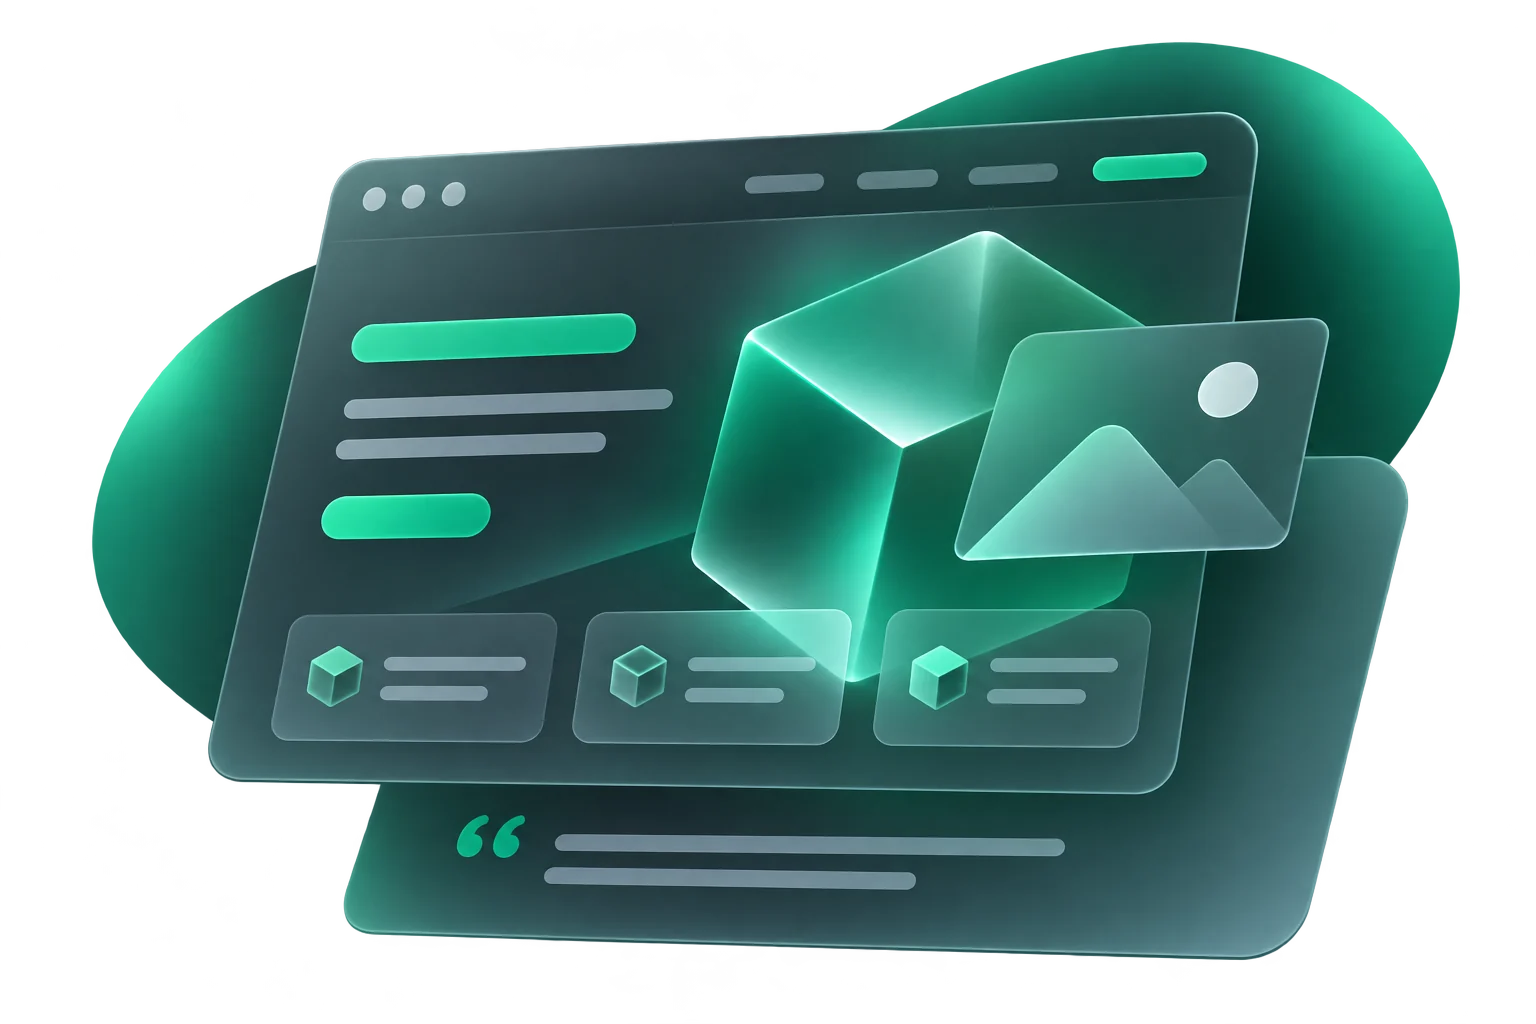
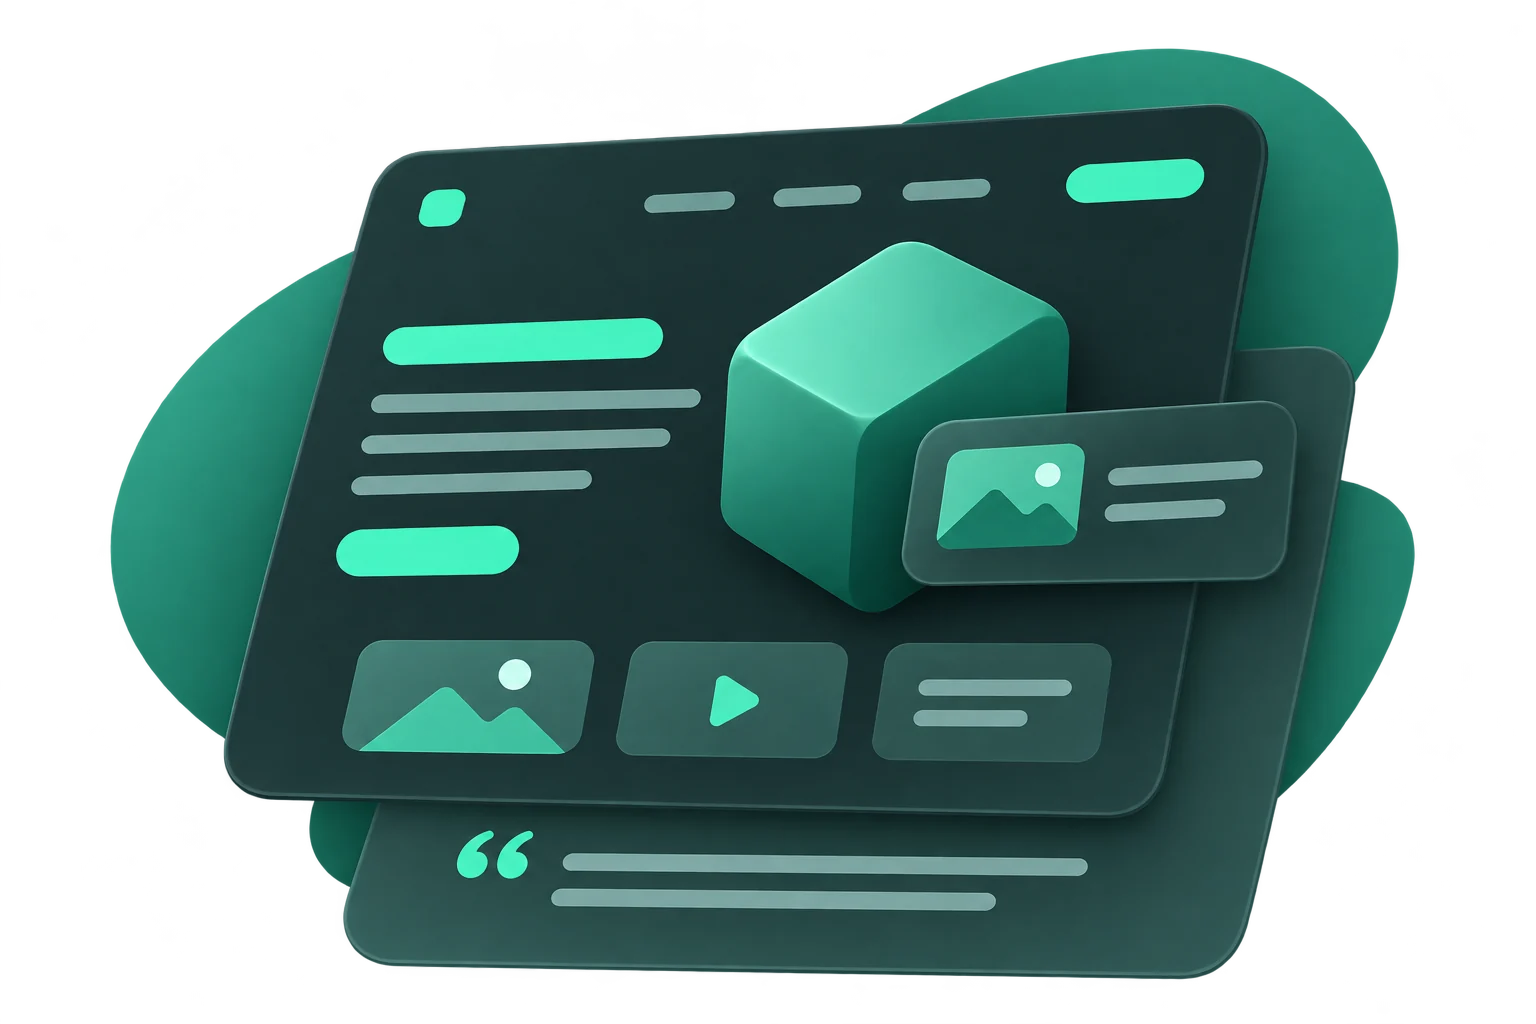
fix: adopt page-sections 0.5.1 and align detail navigation

diff --git a/packages/sveltekit/src/spatial-element/SpatialElementTabList.svelte b/packages/sveltekit/src/spatial-element/SpatialElementTabList.svelte
@@ -26,11 +26,20 @@
 		const sectionId = currentSectionId;
 		if (!linksElement || !sectionId) return;
 
-		const activeLink = Array.from(
+		const links = Array.from(
 			linksElement.querySelectorAll<HTMLElement>('[data-spatial-element-tab-id]')
-		).find((element) => element.dataset.spatialElementTabId === sectionId);
+		);
+		const activeLink = links.find((element) => element.dataset.spatialElementTabId === sectionId);
 		if (!activeLink) return;
 
+		// Keep the dock's changing radii live; only select which group edges are rounded.
+		const rtl = getComputedStyle(linksElement).direction === 'rtl';
+		linksElement.style.setProperty(
+			'--spatial-element-tab-round-left', activeLink === links[rtl ? links.length - 1 : 0] ? '1' : '0'
+		);
+		linksElement.style.setProperty(
+			'--spatial-element-tab-round-right', activeLink === links[rtl ? 0 : links.length - 1] ? '1' : '0'
+		);
 		linksElement.style.setProperty('--spatial-element-tab-active-left', `${activeLink.offsetLeft}px`);
 		linksElement.style.setProperty('--spatial-element-tab-active-width', `${activeLink.offsetWidth}px`);
 		if (!linksElement.hasAttribute('data-spatial-element-tab-indicator-ready') && !readyFrame) {
@@ -169,9 +178,12 @@
 		left: 0;
 		z-index: 0;
 		width: var(--spatial-element-tab-active-width, 0px);
-		border-radius: var(--spatial-element-tab-highlight-top-radius) var(--spatial-element-tab-highlight-top-radius)
-			var(--spatial-element-tab-highlight-bottom-radius) var(--spatial-element-tab-highlight-bottom-radius);
-		background: color-mix(in srgb, var(--spatial-element-body) 8%, transparent);
+		border-radius:
+			calc(var(--spatial-element-tab-round-left, 0) * var(--spatial-element-tab-highlight-top-radius))
+			calc(var(--spatial-element-tab-round-right, 0) * var(--spatial-element-tab-highlight-top-radius))
+			calc(var(--spatial-element-tab-round-right, 0) * var(--spatial-element-tab-highlight-bottom-radius))
+			calc(var(--spatial-element-tab-round-left, 0) * var(--spatial-element-tab-highlight-bottom-radius));
+		background: var(--spatial-element-tab-background);
 		transform: translate3d(var(--spatial-element-tab-active-left, 0px), 0, 0);
 		pointer-events: none;
 		will-change: border-radius;
@@ -180,7 +192,8 @@
 	.spatial-element-tab-links:global([data-spatial-element-tab-indicator-ready]) .spatial-element-tab-selection {
 		transition:
 			width var(--spatial-element-tab-navigation-duration) var(--spatial-element-tab-navigation-easing),
-			transform var(--spatial-element-tab-navigation-duration) var(--spatial-element-tab-navigation-easing);
+			transform var(--spatial-element-tab-navigation-duration) var(--spatial-element-tab-navigation-easing),
+			border-radius var(--spatial-element-tab-navigation-duration) var(--spatial-element-tab-navigation-easing);
 	}
 
 	.spatial-element-tab-selection::after {
@@ -209,8 +222,7 @@
 		box-sizing: border-box;
 		height: 100%;
 		padding: 0 16px;
-		border-radius: var(--spatial-element-tab-highlight-top-radius) var(--spatial-element-tab-highlight-top-radius)
-			var(--spatial-element-tab-highlight-bottom-radius) var(--spatial-element-tab-highlight-bottom-radius);
+		border-radius: 0;
 		color: var(--spatial-element-navigation-ink, var(--spatial-element-ink));
 		background: transparent;
 		font-size: var(--spatial-element-tab-font-size);
@@ -219,6 +231,16 @@
 		text-decoration: none;
 		white-space: nowrap;
 		transition: background-color 180ms ease;
+	}
+
+	.spatial-element-tab-list a:first-of-type {
+		border-start-start-radius: var(--spatial-element-tab-highlight-top-radius);
+		border-end-start-radius: var(--spatial-element-tab-highlight-bottom-radius);
+	}
+
+	.spatial-element-tab-list a:last-of-type {
+		border-start-end-radius: var(--spatial-element-tab-highlight-top-radius);
+		border-end-end-radius: var(--spatial-element-tab-highlight-bottom-radius);
 	}
 
 	a::before,
@@ -245,7 +267,7 @@
 	a.overview[aria-current='location'] svg { opacity: 1; }
 
 	.spatial-element-tab-links:not([data-spatial-element-tab-indicator-ready]) a[aria-current='location'] {
-		background: color-mix(in srgb, var(--spatial-element-body) 8%, transparent);
+		background: var(--spatial-element-tab-background);
 	}
 
 	.spatial-element-tab-links:not([data-spatial-element-tab-indicator-ready]) a[aria-current='location']::after {
@@ -282,7 +304,7 @@
 
 	@media (prefers-reduced-motion: reduce) {
 		a,
-		.spatial-element-tab-selection {
+		.spatial-element-tab-links:global([data-spatial-element-tab-indicator-ready]) .spatial-element-tab-selection {
 			transition: none;
 		}
 	}

diff --git a/tests/apps/showcase-tab-selection.app.ts b/tests/apps/showcase-tab-selection.app.ts
@@ -1,0 +1,58 @@
+import { expect, test } from '@playwright/test';
+
+for (const enhanced of process.env.SPATIAL_GPU ? [false, true] : [false]) for (const width of [1700, 2456]) {
+	test(`detail selection follows the theme and animates only outer corners at ${width}px (enhanced: ${enhanced})`, async ({ page }, info) => {
+		if (!enhanced) await page.addInitScript(() => Object.defineProperty(navigator, 'gpu', { value: undefined }));
+		await page.setViewportSize({ width, height: 1000 });
+		await page.goto('/showcase/consumer/logitech-brio-500/');
+		await expect(page.locator('.stage')).toHaveAttribute('data-stage-state', enhanced ? 'enhanced' : 'fallback', { timeout: 60000 });
+		const tabs = page.locator('[data-spatial-element-tab-list]');
+		const links = tabs.locator('[data-spatial-element-tab-id]');
+		const selection = tabs.locator('[data-spatial-element-tab-selection]');
+		await expect(tabs.locator('[data-spatial-element-tab-indicator-ready]')).toBeVisible();
+		for (const [mode, color] of [['Dark', 'rgb(31, 31, 31)'], ['Light', 'rgb(238, 238, 238)']]) {
+			await page.getByRole('button', { name: mode, exact: true }).filter({ visible: true }).click();
+			await expect(selection).toHaveCSS('background-color', color);
+		}
+		const radii = () => selection.evaluate(node => {
+			const css = getComputedStyle(node);
+			return [css.borderTopLeftRadius, css.borderTopRightRadius, css.borderBottomRightRadius, css.borderBottomLeftRadius].map(parseFloat);
+		});
+		await expect(links.first()).toHaveAttribute('aria-current', 'location');
+		await expect.poll(async () => (await radii())[3]).toBeGreaterThan(0);
+		expect((await radii()).slice(1, 3)).toEqual([0, 0]);
+		// Sample real transition frames: the round left edge must shrink while the surface travels.
+		await selection.evaluate(node => {
+			const frames: { left: number; radius: number }[] = [];
+			Object.assign(window, { tabSelectionFrames: frames });
+			const end = performance.now() + 2000;
+			function sample() {
+				const style = getComputedStyle(node);
+				frames.push({ left: new DOMMatrixReadOnly(style.transform).m41, radius: parseFloat(style.borderBottomLeftRadius) });
+				if (performance.now() < end) requestAnimationFrame(sample);
+			}
+			requestAnimationFrame(sample);
+		});
+		const initialRadius = (await radii())[3];
+		await links.nth(1).click();
+		await expect(links.nth(1)).toHaveAttribute('aria-current', 'location');
+		await expect.poll(radii).toEqual([0, 0, 0, 0]);
+		const frames = await page.evaluate(() => (window as unknown as { tabSelectionFrames: { left: number; radius: number }[] }).tabSelectionFrames);
+		expect(frames.some(frame => frame.left > 0 && frame.radius > 0 && frame.radius < initialRadius)).toBe(true);
+		await links.last().click();
+		await expect(links.last()).toHaveAttribute('aria-current', 'location');
+		await expect.poll(async () => (await radii())[2]).toBeGreaterThan(0);
+		await expect.poll(async () => [(await radii())[0], (await radii())[3]]).toEqual([0, 0]);
+		await page.screenshot({ path: info.outputPath('last-tab.png') });
+		// Theme overrides must also work after the navigation has docked.
+		await tabs.evaluate(node => (node as HTMLElement).style.setProperty('--spatial-element-tab-background', '#123456'));
+		await expect(selection).toHaveCSS('background-color', 'rgb(18, 52, 86)');
+		await page.emulateMedia({ reducedMotion: 'reduce' });
+		await expect(selection).toHaveCSS('transition-duration', '0s');
+		// At the last anchor the footer can cover the fixed 3XL tabs. Scroll back as a reader would.
+		await page.evaluate(() => scrollTo({ top: 0, behavior: 'instant' }));
+		await expect(links.first()).toHaveAttribute('aria-current', 'location');
+		await expect.poll(async () => (await radii())[3]).toBeGreaterThan(0);
+		expect((await radii()).slice(1, 3)).toEqual([0, 0]);
+	});
+}

diff --git a/tests/apps/showcase-popovers.app.ts b/tests/apps/showcase-popovers.app.ts
@@ -1,5 +1,18 @@
 import { expect, test, type Locator } from '@playwright/test';
 
+test('the spatial shell owns the single 32px header delay', async ({ page }) => {
+	await page.addInitScript(() => Object.defineProperty(navigator, 'gpu', { value: undefined }));
+	await page.setViewportSize({ width: 390, height: 900 });
+	await page.goto('/docs/foundations/page-sections/');
+	const header = page.locator('.website-header .header');
+	await expect(page.locator('.website-header .ps-header')).toHaveAttribute('data-scroll', 'static');
+	const top = (await header.boundingBox())!.y;
+	for (const [scroll, offset] of [[20, 0], [52, -20], [0, 0]]) {
+		await page.evaluate(y => scrollTo({ top: y, behavior: 'instant' }), scroll);
+		await expect.poll(async () => Math.round((await header.boundingBox())!.y - top)).toBe(offset);
+	}
+});
+
 test('compact header preserves the brand beside search and settings', async ({page}) => {
 	await page.addInitScript(() => Object.defineProperty(navigator, 'gpu', {value: undefined}));
 	await page.goto('/docs/');

diff --git a/apps/website/src/routes/docs/foundations/first-experience/+page.svelte b/apps/website/src/routes/docs/foundations/first-experience/+page.svelte
@@ -2,7 +2,7 @@
 	export const examples = [
 		{
 			language: 'sh',
-			code: 'npm install @spatial-elements/sveltekit@beta @page-sections/svelte@0.5.0'
+			code: 'npm install @spatial-elements/sveltekit@beta @page-sections/svelte@0.5.1'
 		},
 		{
 			language: 'svelte',
@@ -45,7 +45,7 @@
 			</p>
 			<CodeBlock {...examples[0]} highlighted={data.highlights[0]} />
 			<p>
-				The spatial package uses Page Sections 0.5.0 and Three.js 0.187. Modern npm resolves peer
+				The spatial package uses Page Sections 0.5.1 and Three.js 0.187. Modern npm resolves peer
 				dependencies; if you import Three.js directly, also declare <code>three@^0.187.0</code> and
 				<code>@types/three@^0.187.0</code> for TypeScript.
 			</p>

diff --git a/packages/sveltekit/src/spatial-element/SpatialNavigationShell.svelte b/packages/sveltekit/src/spatial-element/SpatialNavigationShell.svelte
@@ -88,7 +88,7 @@
 
 <div class="spatial-shell-track" style:--ps-sticky-range={`${spatialLayoutTokens.menu.scrollThreshold}px`} data-spatial-navigation-shell>
  <div bind:this={rack} class="spatial-shell-rack" data-stage-scroll-shell data-catalog-shell data-spatial-navigation-glass={theme.panelTheme.surface === 'glass' ? '' : undefined}>
-  {#if navigation}{@render navigation()}{:else}<Header {menu} {items} {brand} {tools} {left} {right} />{/if}
+  {#if navigation}{@render navigation()}{:else}<Header scrollBehavior="static" {menu} {items} {brand} {tools} {left} {right} />{/if}
  </div>
 </div>
 <style>

diff --git a/vitest.config.ts b/vitest.config.ts
@@ -1,2 +1,9 @@
 import { defineConfig } from 'vitest/config';
-export default defineConfig({test:{include:['packages/core/src/**/*.{spec,test}.ts','tooling/**/*.spec.ts'],environment:'node'}});
+export default defineConfig({
+	// Node tests import shared website data without loading SvelteKit's virtual $app/tsconfig.
+	tsconfig: './tsconfig.base.json',
+	test: {
+		include: ['packages/core/src/**/*.{spec,test}.ts', 'tooling/**/*.spec.ts'],
+		environment: 'node'
+	}
+});

diff --git a/apps/website/src/routes/docs/foundations/page-sections/+page.svelte b/apps/website/src/routes/docs/foundations/page-sections/+page.svelte
@@ -37,7 +37,7 @@
 			<p>
 				<a href="https://page-sections.bergjohann.com/docs/">Page Sections</a> supplies these content
 				building blocks, plus page containers, navigation, themes and a responsive grid. Spatial Elements
-				uses Page Sections 0.5.0 as its foundation.
+				uses Page Sections 0.5.1 as its foundation.
 			</p>
 			<DocFigure
 				name="foundations"

diff --git a/apps/website/src/routes/+layout.svelte b/apps/website/src/routes/+layout.svelte
@@ -88,7 +88,7 @@
 
 {#snippet siteNavigation()}
 	<div class="website-header">
-		<Header {items} closeKey={page.url.pathname}>
+		<Header scrollBehavior="static" {items} closeKey={page.url.pathname}>
 			{#snippet itemIcon(item)}<NavigationIcon name={item.icon} />{/snippet}
 			{#snippet brand()}
 				<a class="skip-link" href="#main-content">Skip to content</a>

diff --git a/apps/website/src/lib/theme.ts b/apps/website/src/lib/theme.ts
@@ -62,7 +62,7 @@ export function websiteTheme(
 			body: palette.body,
 			accent: palette.accent,
 			onAccent: palette.onAccent,
-			tabBackground: mode === 'dark' ? 'rgba(72, 77, 83, 0.5)' : '#eeeeee'
+			tabBackground: mode === 'dark' ? '#1f1f1f' : '#eeeeee'
 		},
 		panelTheme: {
 			surface: 'frosted',

diff --git a/apps/website/src/routes/getting-started/+page.svelte b/apps/website/src/routes/getting-started/+page.svelte
@@ -26,7 +26,7 @@
 		</p>
 		<CodeBlock
 			language="sh"
-			code="npm install @spatial-elements/sveltekit@beta @page-sections/svelte@0.5.0"
+			code="npm install @spatial-elements/sveltekit@beta @page-sections/svelte@0.5.1"
 		/>
 	</Section>
 	<Section

diff --git a/docs/development.md b/docs/development.md
@@ -1,8 +1,10 @@
 # Development
 
-Use Node 24 and npm 11. The applications use SvelteKit 3 (configuration in `vite.config.ts`, native `#lib` imports) and Svelte 5. Install with npm ci. The packages build in dependency order through npm run build. Public runtime dependencies use Page Sections 0.5.0 and Three.js 0.187; no sibling checkout is required.
+Use Node 24 and npm 11. The applications use SvelteKit 3 (configuration in `vite.config.ts`, native `#lib` imports) and Svelte 5. Install with npm ci. The packages build in dependency order through npm run build. Public runtime dependencies use Page Sections 0.5.1 and Three.js 0.187; no sibling checkout is required.
 
 TypeScript stays on 6.0.3 because the current SvelteKit, svelte-package and svelte-check peer ranges do not support TypeScript 7. Node type declarations follow the Node 24 runtime. Lucide imports use the maintained `@lucide/svelte` package.
+
+The spatial shell owns delayed header scrolling, including the fixed 3XL detail layout. If you supply a custom `navigation` snippet containing a Page Sections `Header`, set `scrollBehavior="static"` on that inner header; Page Sections 0.5.1 otherwise adds its own delayed scroll track. The default spatial header already sets this.
 
 `SpatialCardGridSection` and `SpatialListPage` now use one card format: descriptions are displayed when provided, and `cardShadow` enables the resting shadow. Remove `cardVariant`. Omit `itemSpan` for responsive S/M/L allocation; explicit spans still use `ContentBlock`. A card root is an article with a stretched native title link. Spatial endpoints register the article, media, title label and eyebrow separately; keyboard focus belongs to the inner link.
 

diff --git a/docs/release.md b/docs/release.md
@@ -2,7 +2,7 @@
 
 ## Prepared correction release
 
-Both public packages are prepared as `1.0.0-beta.16`, adopting Page Sections 0.5.0, Three.js 0.187 and SvelteKit 3. Spatial cards use `cardShadow` instead of `cardVariant`, retain full-card links and equal heights, and preserve their 3D transitions. See [development](development.md) for migration details and supported tooling. Commit and merge the prepared branch without running `changeset` or `release:version` again. The release workflow publishes this version under **beta**; it does not move **latest**. Consumers can explicitly install it with:
+Both public packages are prepared as `1.0.0-beta.16`, adopting Page Sections 0.5.1, Three.js 0.187 and SvelteKit 3. Spatial cards use `cardShadow` instead of `cardVariant`, retain full-card links and equal heights, and preserve their 3D transitions. See [development](development.md) for migration details and supported tooling. Commit and merge the prepared branch without running `changeset` or `release:version` again. The release workflow publishes this version under **beta**; it does not move **latest**. Consumers can explicitly install it with:
 
 ```sh
 npm install @spatial-elements/core@beta @spatial-elements/sveltekit@beta
